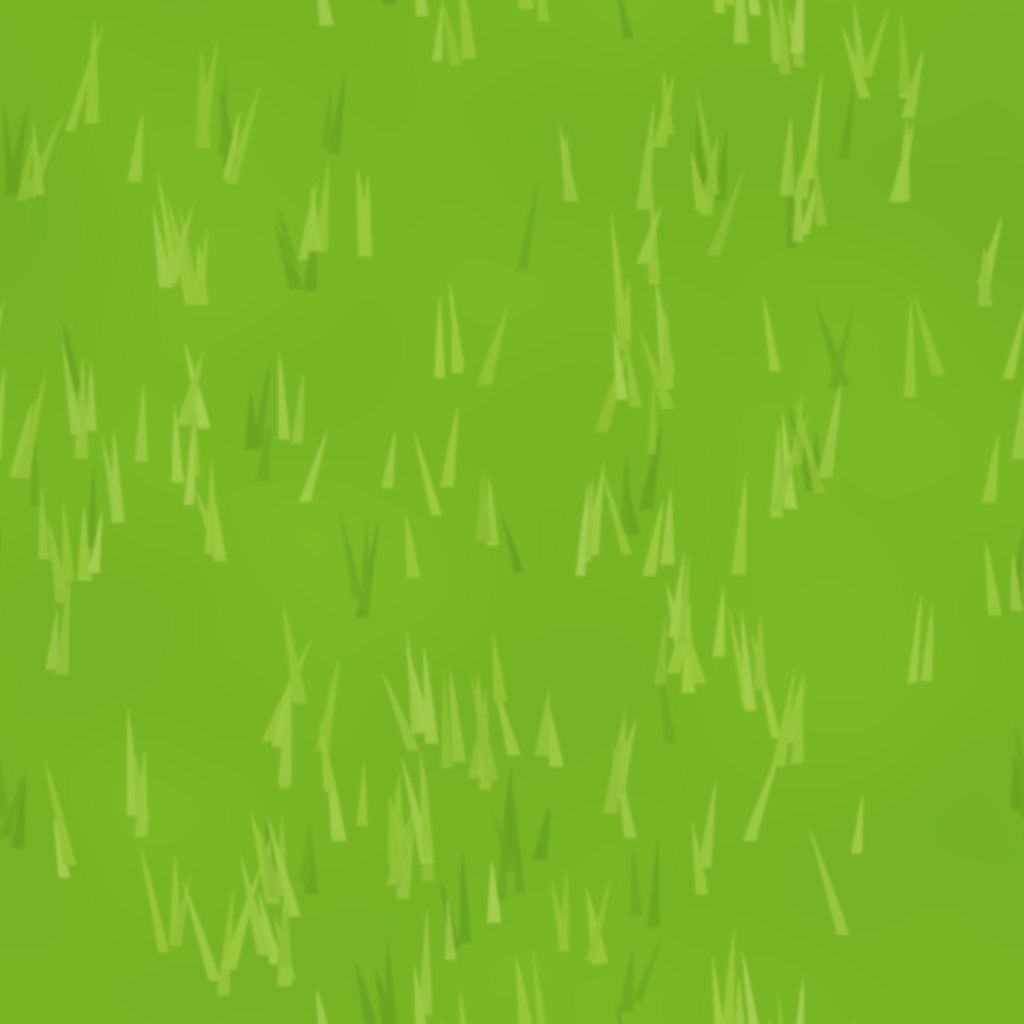
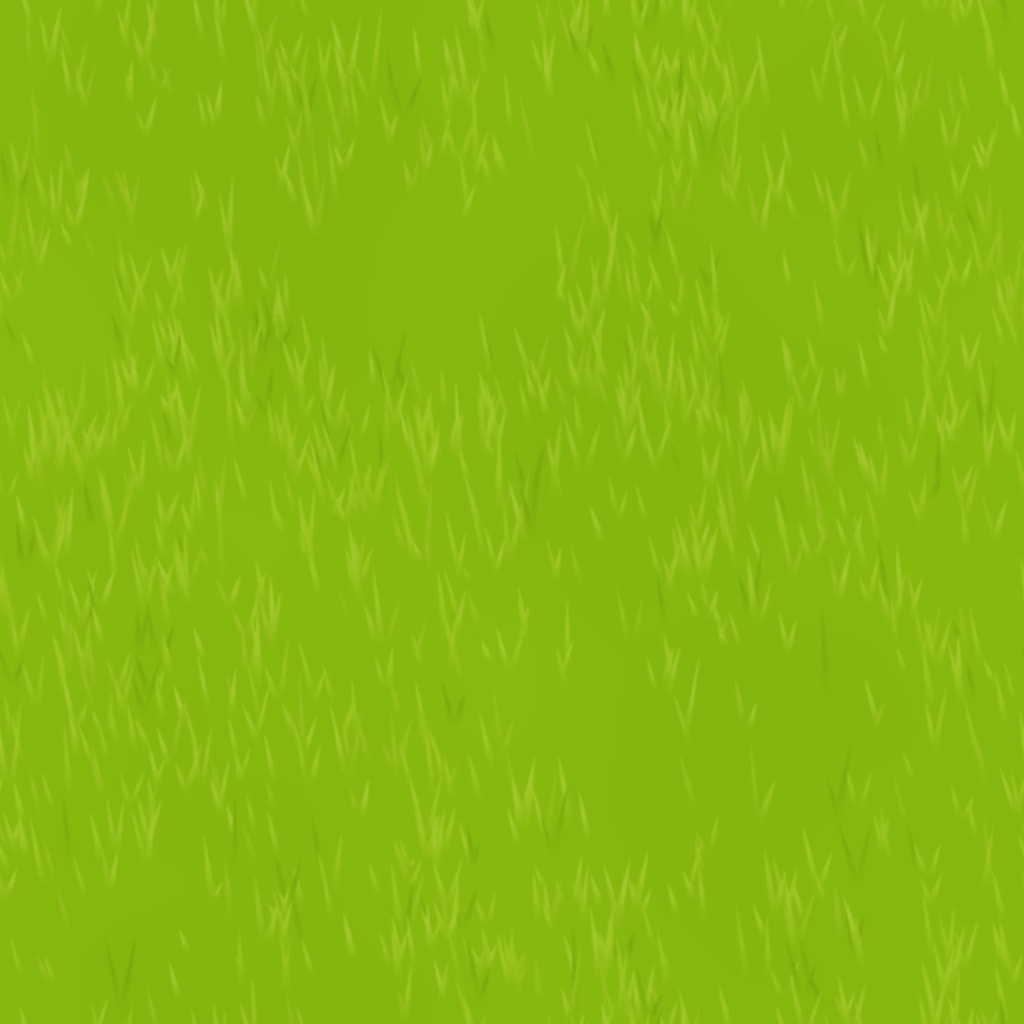
Test: Wiese mit gemalten Einzelhalmen, Grassaum am Weg, Erdweg wärmer (Runde 2, noch nicht abgenommen)

diff --git a/src/render/scene/ground.ts b/src/render/scene/ground.ts
@@ -176,7 +176,7 @@ vec3 pathLook(vec2 g, vec2 f, vec3 e012, vec4 e3456, float px) {
   float all = e012.x + e012.y + e012.z + e3456.x + e3456.y + e3456.z + e3456.w;
   e012 = vec3(all, 0.0, 0.0); e3456 = vec4(0.0);
   // Erde (Kufenspuren brauchen die Fahrtrichtung und kommen mit dem gemalten Erd-Bild in der Grafik-Runde)
-  if (e012.x > 0.003) col += vec3(150.0, 104.0, 64.0) / 255.0 * (1.0 + 0.08 * grain + 0.06 * (noise(f / 40.0) - 0.5)) * e012.x;
+  if (e012.x > 0.003) col += vec3(196.0, 112.0, 52.0) / 255.0 * (1.0 + 0.08 * grain + 0.06 * (noise(f / 40.0) - 0.5)) * e012.x;
   if (e012.y > 0.003) col += vec3(226.0, 230.0, 236.0) / 255.0 * (1.0 + 0.05 * grain) * e012.y;   // Schneepfad
   if (e012.z > 0.003) {                                       // Kies: helle und dunkle Körner
     float k = hash12(floor(f / 2.2));
@@ -261,25 +261,51 @@ void main() {
   // Wegfläche (Baustein 6, Kante A): Saum innen, Gras ragt in Halmen über die Kante. Schnee am Weg kommt später (Entsch. 55)
   vec2 g = toGrid(w);
   float sd = pathSd(g);
+  // Grassaum (Hay Day nah, Hannes-Screenshot 25.11.): Band ~0,3 Kachel am Weg heller und frischer grün
+  // (gemessen Wiese 139/189/14, Saum 155/205/45), darin weiche schräge Halmstriche
+  vec3 saum = col * vec3(1.07, 1.07, 1.0) + vec3(0.0, 0.0, 0.08);
+  float onM = 0.0;
+  if (sd > -0.5) {
+    onM = smoothstep(0.2, 0.7, meadowField(w));
+    float streak = noise(vec2((w.x - w.y * 0.5) / 2.2, w.y / 14.0));
+    float band = smoothstep(-0.26, -0.1, sd + 0.07 * (noise(f / 9.0) - 0.5)) * (0.7 + 0.45 * streak);
+    if (sd <= 0.0) col = mix(col, saum, clamp(band, 0.0, 1.0) * onM);
+  }
   if (sd > -0.3) {
     vec2 uv = pathUv(g);
     vec4 wa = textureLod(uPathA, uv, 0.0), wb = textureLod(uPathB, uv, 0.0);
     float aaS = max(fwidth(sd), 1e-4) * 0.75;
     float onMeadow = smoothstep(0.2, 0.7, meadowField(w));
-    // Halme: schmale Spitzen in Bildschirm-Spalten (Halme stehen senkrecht), in kleinen Büscheln wie Hay Day:
-    // nur ein Teil der Kante trägt Büschel (Gruppe ~4 Spalten), darin 1–3 Halme mit zufälliger Länge
-    float colW = 2.6;
-    float cx = floor(w.x / colW);
-    float row = floor((w.y + cx * 7.0) / 48.0);
-    float tuft = hash12(vec2(floor(cx / 4.0), row + 31.0));
-    float hb = hash12(vec2(cx, row));
-    float len = (tuft > 0.55 && hb > 0.4) ? (0.05 + 0.1 * hb * hb) : 0.0;
-    float taper = 1.0 - abs(fract(w.x / colW) - 0.5) * 2.0;
-    float blade = len * taper * onMeadow * smoothstep(4.0, 1.5, px);
-    float kante = sd - blade;
+    // Grassaum (Runde 2, Hannes „zackig“): dichte feine Halmspitzen in Bildschirm-Spalten. Ein Halm wächst von der
+    // Wiese UNTER dem Punkt nach oben: Weg nur, wo der Punkt selbst und der Punkt eine Halmlänge tiefer Weg sind.
+    // So entstehen an steilen Kanten keine senkrechten Streifen (Punkt darunter liegt dort ebenfalls auf dem Weg).
+    // Halme leicht schräg nach rechts (wie Hay Day), Spalten im geneigten Raster
+    // zwei versetzte Spaltenraster mit verschiedener Breite: unregelmäßige, weiche Spitzen statt Sägezahn
+    float sx = w.x - w.y * 0.25;
+    float fade = onMeadow * smoothstep(4.0, 1.5, px);
+    float bladeW = 0.0;
+    for (int k = 0; k < 2; k++) {
+      float cw = k == 0 ? 2.9 : 1.9;
+      float xs = sx + float(k) * 1.3;
+      float cx = floor(xs / cw);
+      float hb = hash12(vec2(cx, 3.0 + float(k) * 11.0));
+      float wave = noise(vec2(xs / 12.0, 1.0 + float(k)));
+      float lenW = (hb < 0.25 ? 0.0 : (2.5 + 9.0 * hb * hb)) * (0.5 + 0.9 * wave) * (k == 0 ? 1.0 : 0.65);
+      float off = (hash12(vec2(cx, 9.0 + float(k))) - 0.5) * 0.4;
+      float taper = clamp(1.0 - abs(fract(xs / cw) - 0.5 - off) * 2.2, 0.0, 1.0);
+      bladeW = max(bladeW, lenW * pow(taper, 1.6));
+    }
+    bladeW *= fade;
+    float sdBelow = pathSd(toGrid(w + vec2(-bladeW * 0.25, bladeW)));
+    float kante = min(sd, sdBelow) - 0.035 * (noise(vec2(sx / 3.0, 7.0)) - 0.4);   // auch die obere Kante leicht unruhig
     vec3 pc = pathLook(g, f, wa.gba, wb, px);
-    pc *= 1.0 - 0.22 * pow(clamp(1.0 - kante / 0.14, 0.0, 1.0), 1.5);
-    col = mix(col, pc, clamp(kante / aaS + 0.5, 0.0, 1.0));
+    // Spuren längs des Wegs: Bänder gleichen Abstands zur Kante (laufen von selbst mit jeder Kurve)
+    float rut = noise(vec2(sd * 7.0, dot(g, vec2(0.35, 0.35))));
+    pc *= 0.96 + 0.07 * rut;
+    pc *= 1.0 - 0.1 * pow(clamp(1.0 - kante / 0.12, 0.0, 1.0), 1.6);     // leichter Schatten am Saum
+    // Halmspitzen über dem Weg in Saumfarbe, weich auslaufend
+    vec3 gc = sd > 0.0 ? mix(saum, saum * vec3(1.04, 1.04, 1.0), 0.5) : col;
+    col = mix(gc, pc, clamp(kante / (aaS * 2.2) + 0.5, 0.0, 1.0));
   }
   finalColor = vec4(col, 1.0);
 }`;

diff --git a/scripts/wiese_halme.py b/scripts/wiese_halme.py
@@ -60,3 +60,58 @@ def wiese(seed=7, base=(128, 190, 40), dark=(112, 172, 34), light=(170, 210, 70)
     img = blades(img, pts, cols, 1.0)
     # weich wie gemalt (Hay-Day-Halme haben keine harten Kanten)
     return pblur(img, soft)
+
+
+# ---------------------------------------------------------------- Runde 2 (25.11. spät): gemalte Halme
+# Hannes: Halme „zackig“. Hay Day nah (Screenshots 1000325439/461): Grund kräftig gelbgrün (Median 140/189/14),
+# Halme dünn, lang, leicht gebogen, in Fächern aus einem Fuß; der Fuß verschwindet im Grund (Deckkraft läuft von 0
+# am Fuß zur Spitze hoch), dadurch keine harten V-Formen. Dichte schwankt in großen Wolken (Lücken + dichte Stellen).
+
+def _halm_weich(d, x, y, h, w, a, c, alpha, steps=9):
+    """Halm in Abschnitten: Deckkraft steigt vom Fuß (0) zur Mitte, Spitze läuft schmal aus."""
+    bend = a * 0.45
+    pts = []
+    for t in np.linspace(0, 1, steps + 1):
+        cx = x + np.sin(a) * h * t + np.sin(bend) * h * 0.3 * t * t
+        pts.append((cx, y - h * t, w * (1 - t) ** 0.7 / 2))
+    for i in range(steps):
+        (x0, y0, w0), (x1, y1, w1) = pts[i], pts[i + 1]
+        t = (i + 0.5) / steps
+        k = min(1.0, t / 0.55) ** 1.4 * (1 - 0.25 * t)
+        d.polygon([(x0 - w0, y0), (x1 - w1, y1), (x1 + w1, y1), (x0 + w0, y0)], fill=c + (int(alpha * k),))
+
+
+def wiese_gemalt(seed=11, base=(140, 189, 16), dark=(128, 178, 12), light=(168, 206, 44),
+                 tufts=150, per=(3, 6), height=120, width=7.0, spread=0.32, alpha=(70, 130),
+                 n_dark=0.25, soft=0.9, cloud=0.35, dens_contrast=1.0):
+    rng = np.random.default_rng(seed)
+    t = pnoise(seed, 260) * 0.7 + pnoise(seed + 1, 120) * 0.3
+    t = np.clip((t - 0.5) * 1.6 * cloud + 0.5, 0, 1)
+    img = colorize(t, dark, base)
+    # Fächer-Füße: dort mehr, wo die Dichte-Wolke hoch ist (Lücken und dichte Stellen wie Hay Day)
+    dens = pnoise(seed + 5, 180)
+    feet = []
+    while len(feet) < tufts:
+        p = rng.uniform(0, M, 2)
+        v = dens[int(p[1] / S) % N, int(p[0] / S) % N]
+        if rng.uniform() < np.clip((v - 0.5) * 2.2 * dens_contrast + 0.5, 0.05, 1):
+            feet.append(p)
+    blades = []   # (x, y, h, w, a, col, alpha)
+    for fx, fy in feet:
+        k = rng.integers(per[0], per[1] + 1)
+        dk = rng.uniform() < n_dark
+        hm = rng.uniform(0.7, 1.15)
+        for j in range(k):
+            a = (j / max(k - 1, 1) - 0.5) * 2 * spread + rng.normal(0, 0.08)
+            h = height * S * hm * rng.uniform(0.6, 1.0) * (1 - 0.35 * abs(a) / max(spread, 1e-3))
+            c = lift(dark, -0.14) if dk else lift(light, rng.uniform(-0.08, 0.12))
+            blades.append((fx + rng.normal(0, width * S * 0.4), fy + rng.normal(0, 2 * S), h,
+                           width * S * rng.uniform(0.8, 1.2), a, c, rng.uniform(*alpha) * (0.8 if dk else 1)))
+    blades.sort(key=lambda b: b[1])   # hinten zuerst
+    pts = [(b[0], b[1]) for b in blades]
+
+    def fn(d, i, x, y):
+        b = blades[i]
+        _halm_weich(d, x, y, b[2], b[3], b[4], b[5], b[6])
+    img = paint(img, fn, pts, int(height * S * 1.3))
+    return pblur(img, soft)
